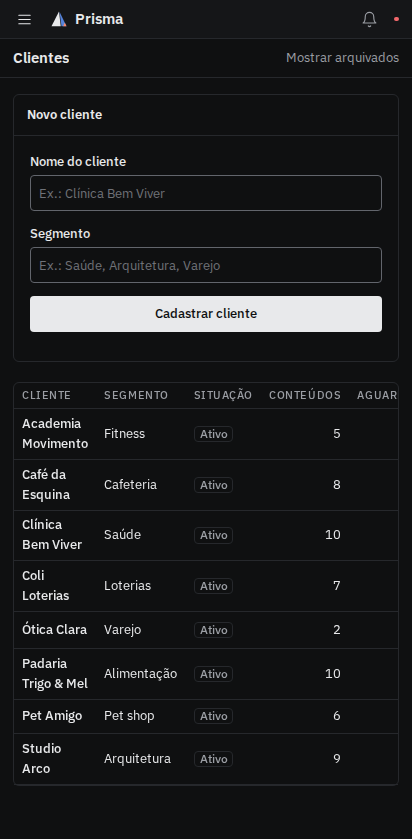
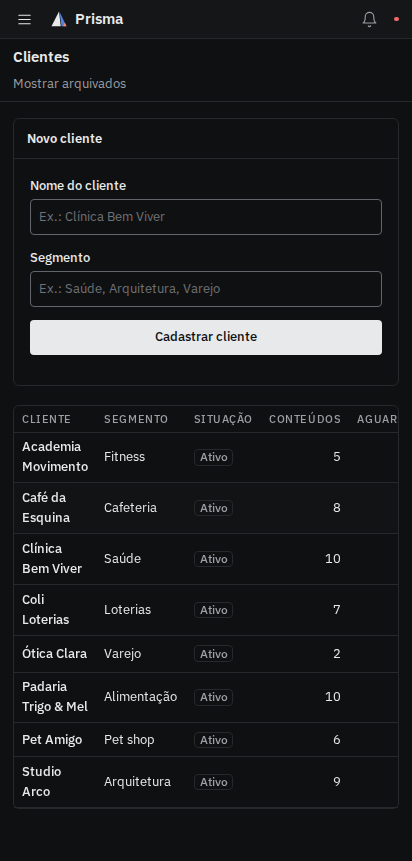
Next.js 16.4.6 (correção de segurança) e barra de topo estável no celular
- next e eslint-config-next 16.4.2 → 16.4.6: corrige GHSA-mfr8-8qww-v76h
  (moderada; o PRISMA não usa 'use cache' nem unstable_cache). Com a versão
  afetada, o next build parava com um aviso de segurança, o que travava a
  atualização no Codespace.
- No celular, título e ações da barra de topo ficam sempre em linhas
  separadas: a altura deixa de depender do tamanho do título (a data do
  Início mudava a comparação visual conforme o dia da semana).

Claude-Session: https://claude.ai/code/session_01ExQErdFqFcLxjPvarfgfGd

diff --git a/src/components/ui/page-header.tsx b/src/components/ui/page-header.tsx
@@ -3,7 +3,9 @@ import type { ReactNode } from "react";
 /**
  * Barra de topo da página: 48 px, fixa no alto, com o contexto (`eyebrow`,
  * ex.: "Clientes / Café da Esquina"), o título e as ações. A descrição, quando
- * existe, fica logo abaixo, no corpo da página.
+ * existe, fica logo abaixo, no corpo da página. No celular, título e ações
+ * ficam sempre em linhas separadas (o título é cortado com reticências), para
+ * a altura não depender do tamanho do texto.
  */
 export function PageHeader({
   title,
@@ -19,7 +21,7 @@ export function PageHeader({
   return (
     <>
       <header className="sticky top-12 z-30 -mx-4 mb-5 flex min-h-12 flex-wrap items-center justify-between gap-x-4 gap-y-2 border-b border-line bg-bg px-4 py-2 md:-mx-7 md:px-7 lg:top-0">
-        <div className="flex min-w-0 items-baseline gap-2">
+        <div className="flex min-w-0 items-baseline gap-2 max-md:w-full">
           {eyebrow ? (
             <>
               <span className="truncate text-base text-muted">{eyebrow}</span>
